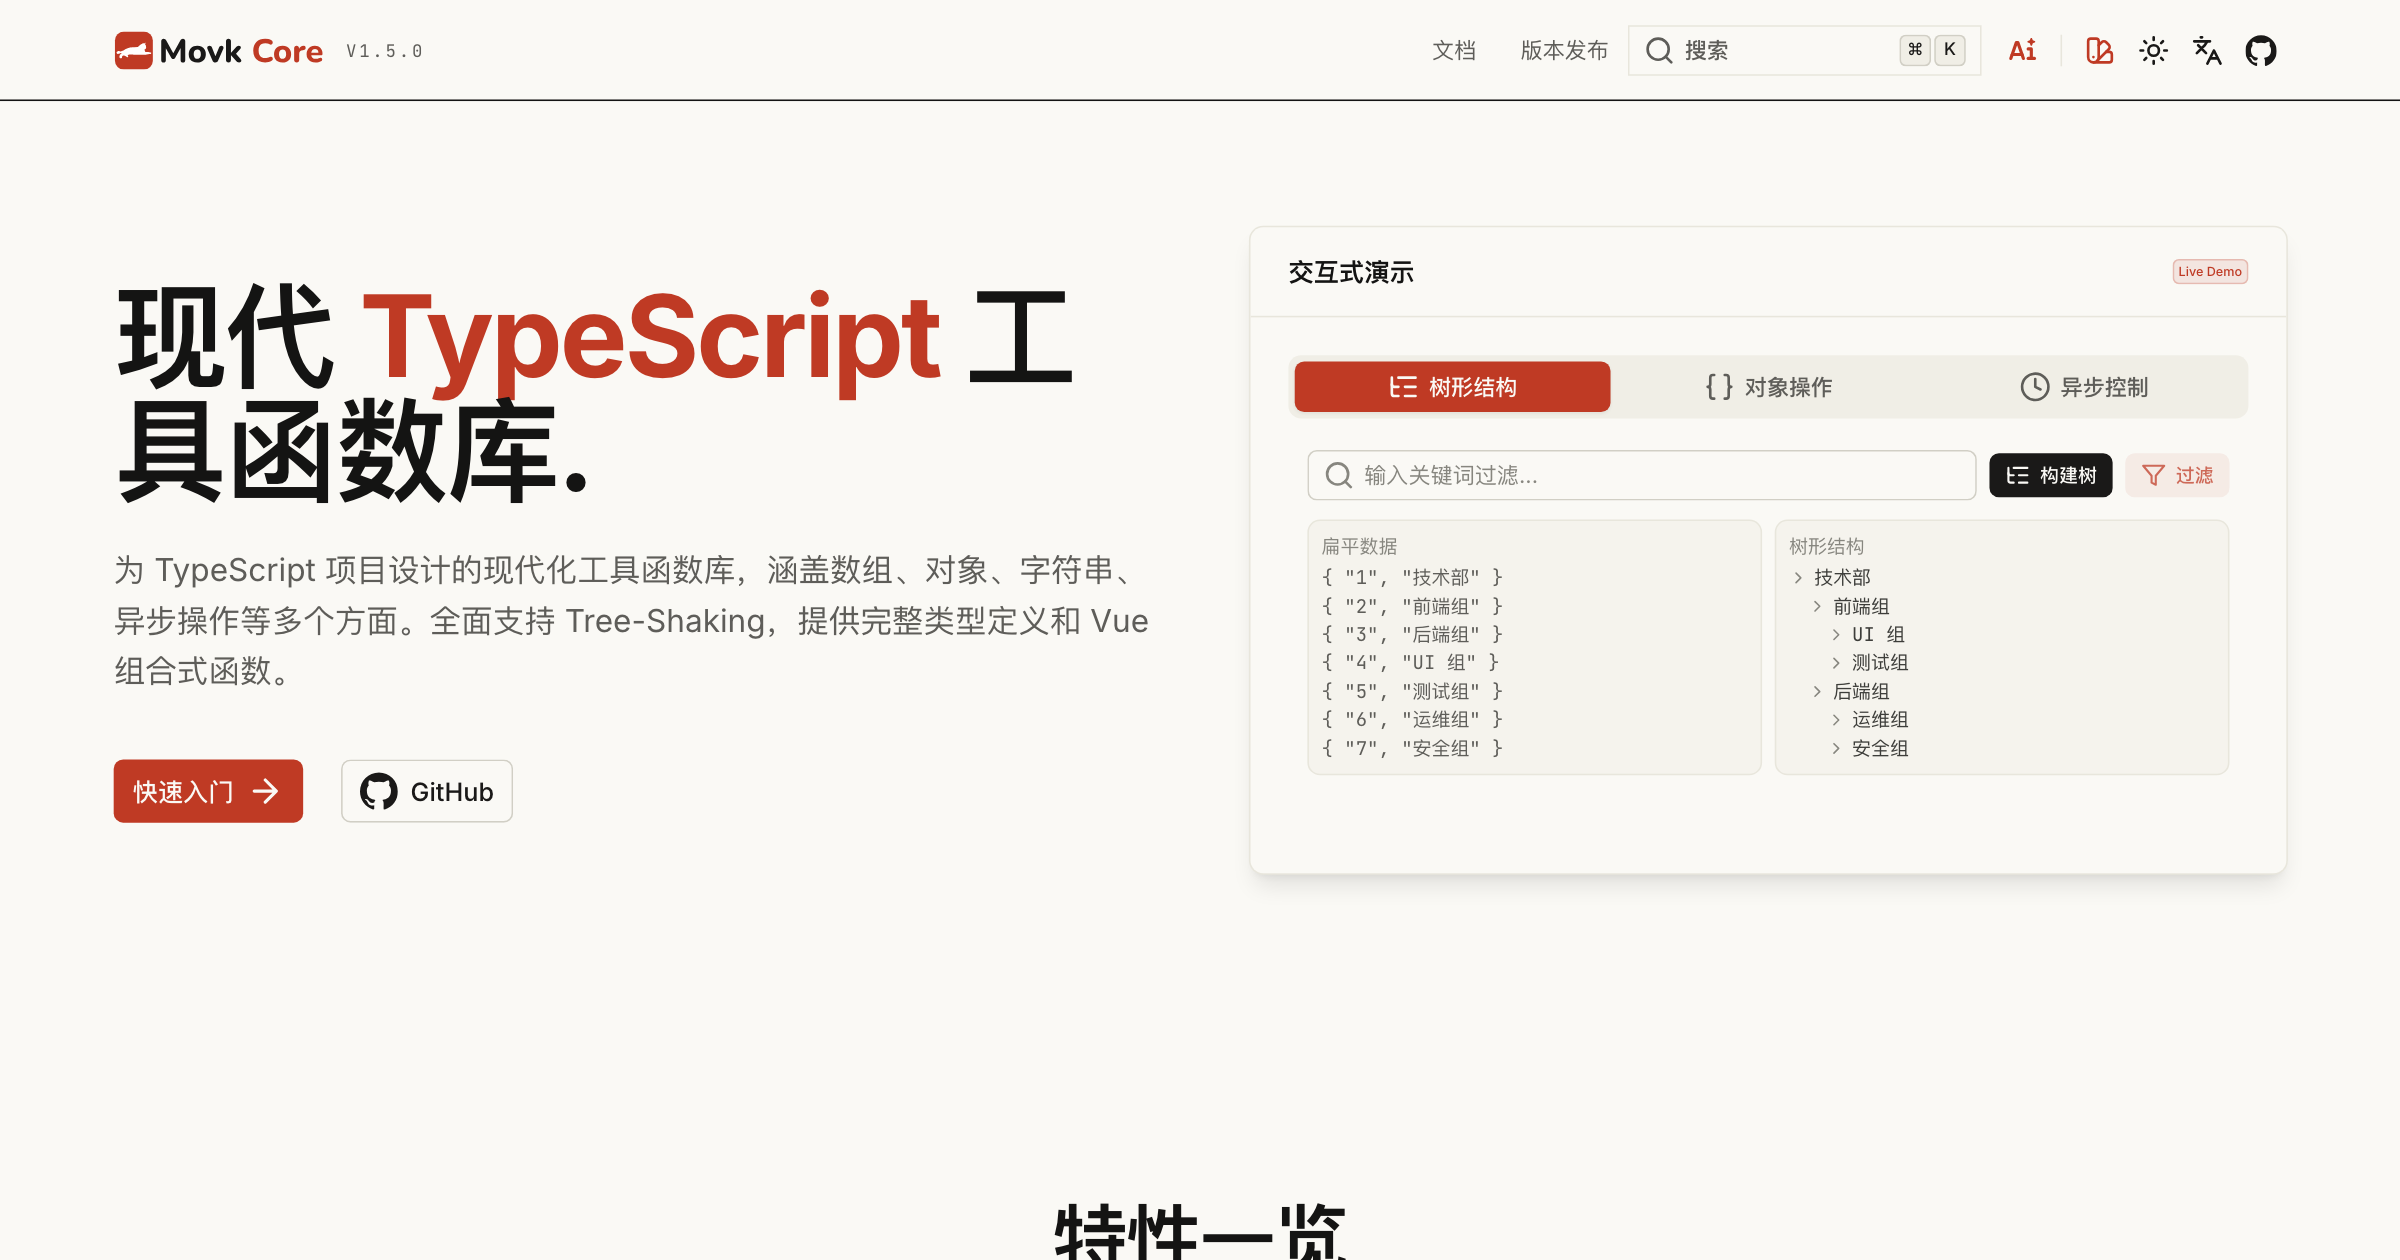
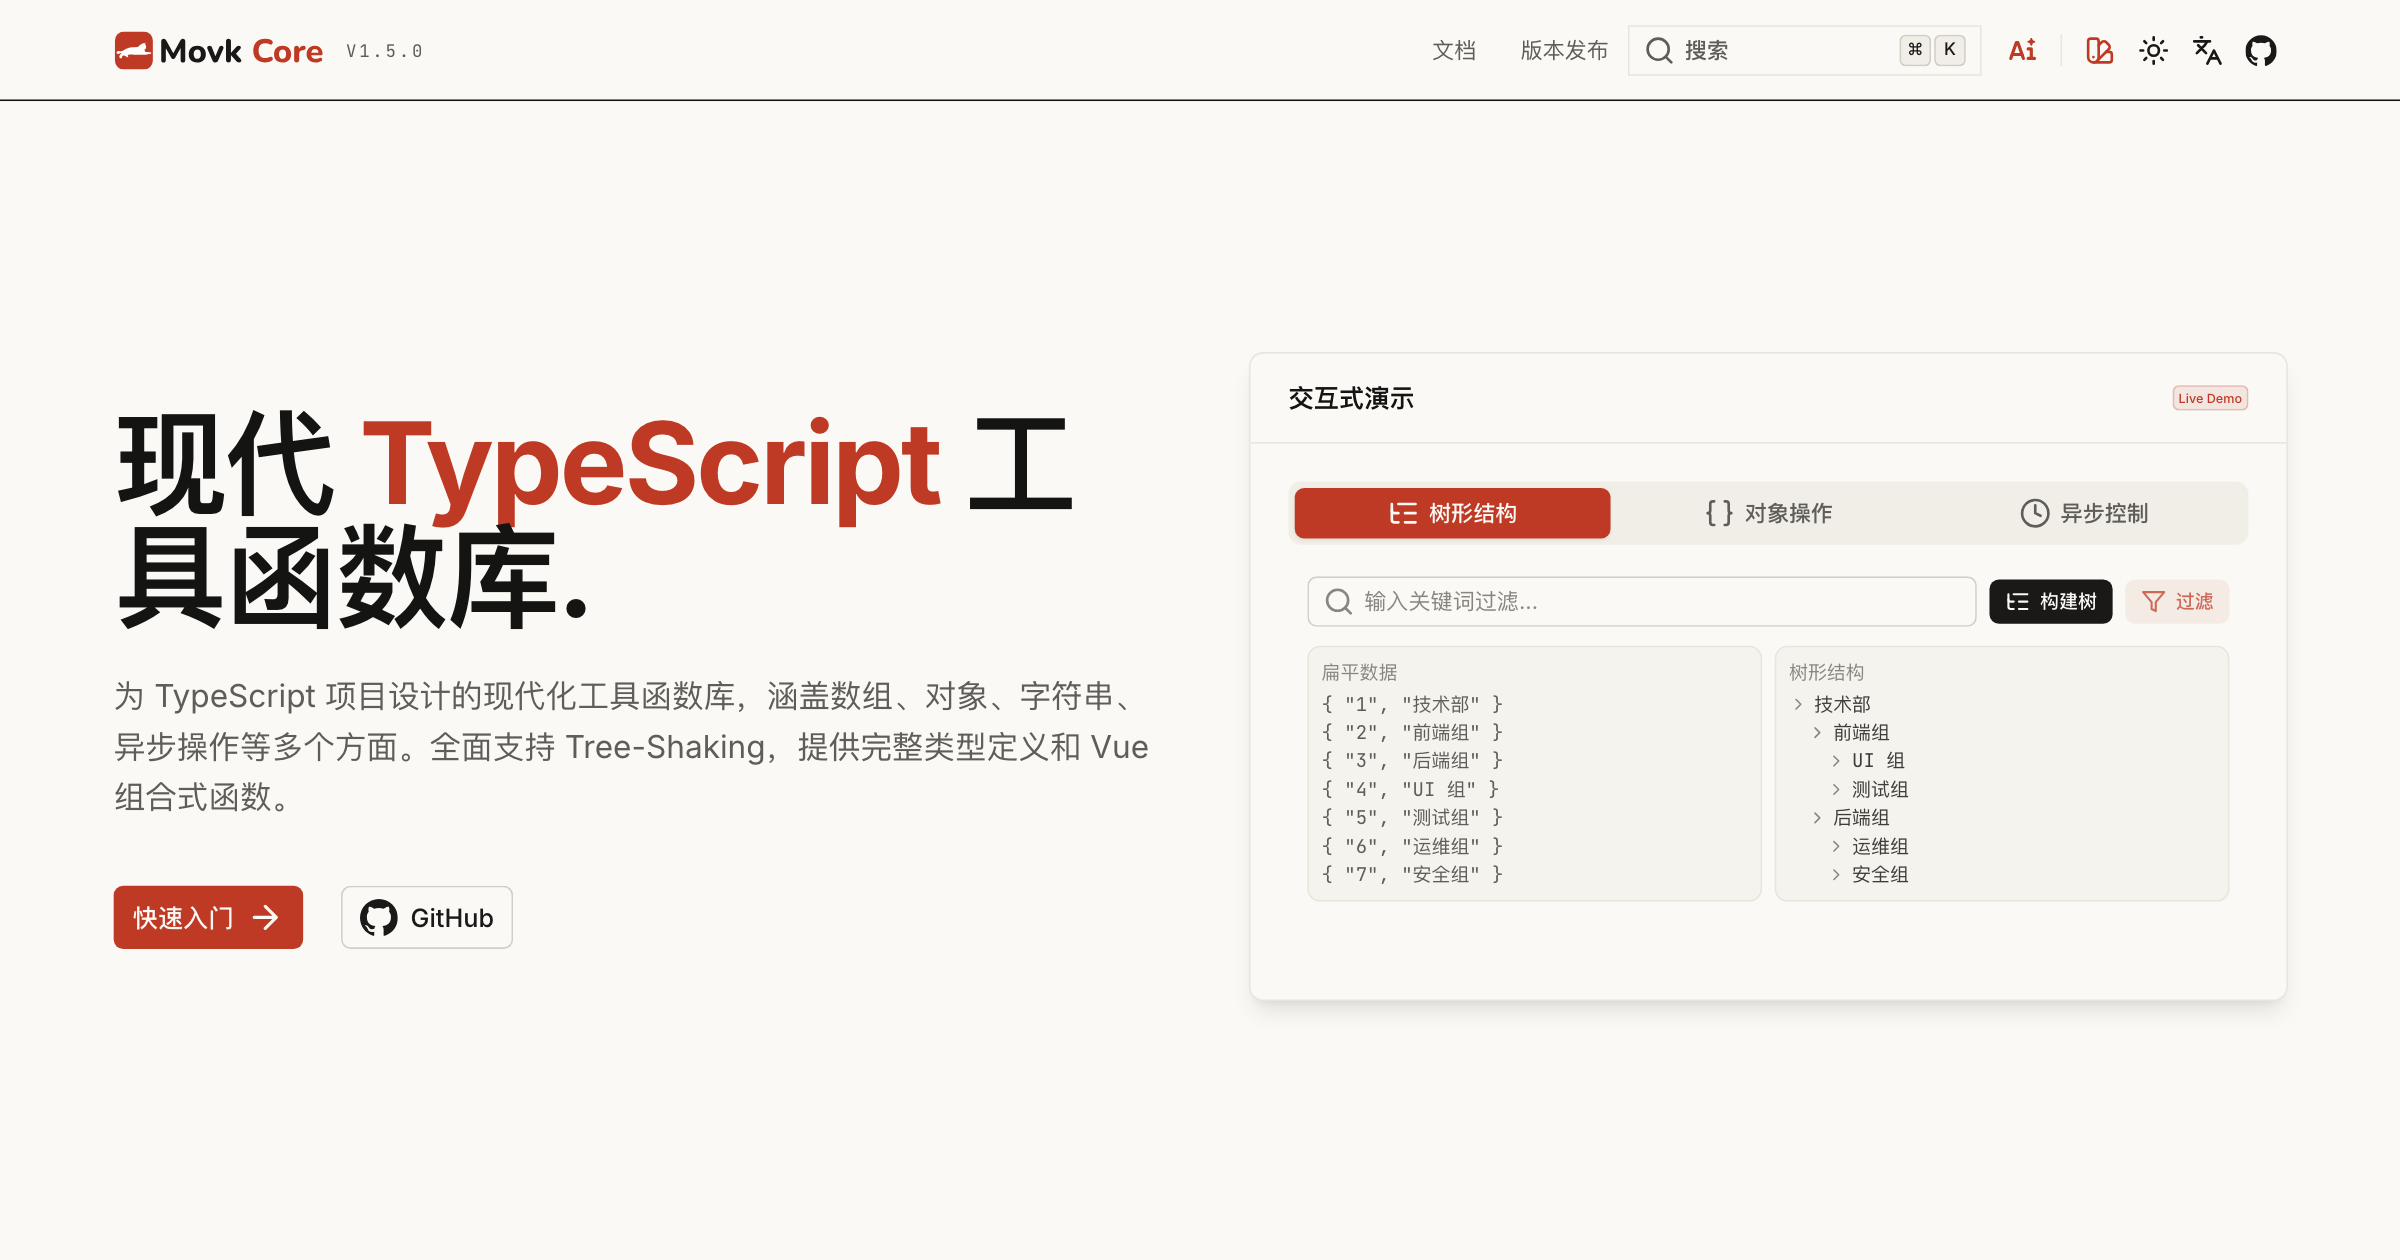
docs: 恢复首页 Hero 默认间距并重截 OG 图
- 移除中英文首页 Hero 纵向间距覆盖，避免首屏底部裁切下一节标题
- 按 2400×1260 标准重新截取首页 OG 图

diff --git a/docs/content/en/index.md b/docs/content/en/index.md
@@ -7,8 +7,6 @@ seo:
 ::u-page-hero{class="dark:bg-gradient-to-b from-neutral-900 to-neutral-950"}
 ---
 orientation: horizontal
-ui:
-  container: lg:py-20
 ---
 #title
   :::motion

diff --git a/docs/content/index.md b/docs/content/index.md
@@ -7,8 +7,6 @@ seo:
 ::u-page-hero{class="dark:bg-gradient-to-b from-neutral-900 to-neutral-950"}
 ---
 orientation: horizontal
-ui:
-  container: lg:py-20
 ---
 #title
   :::motion
